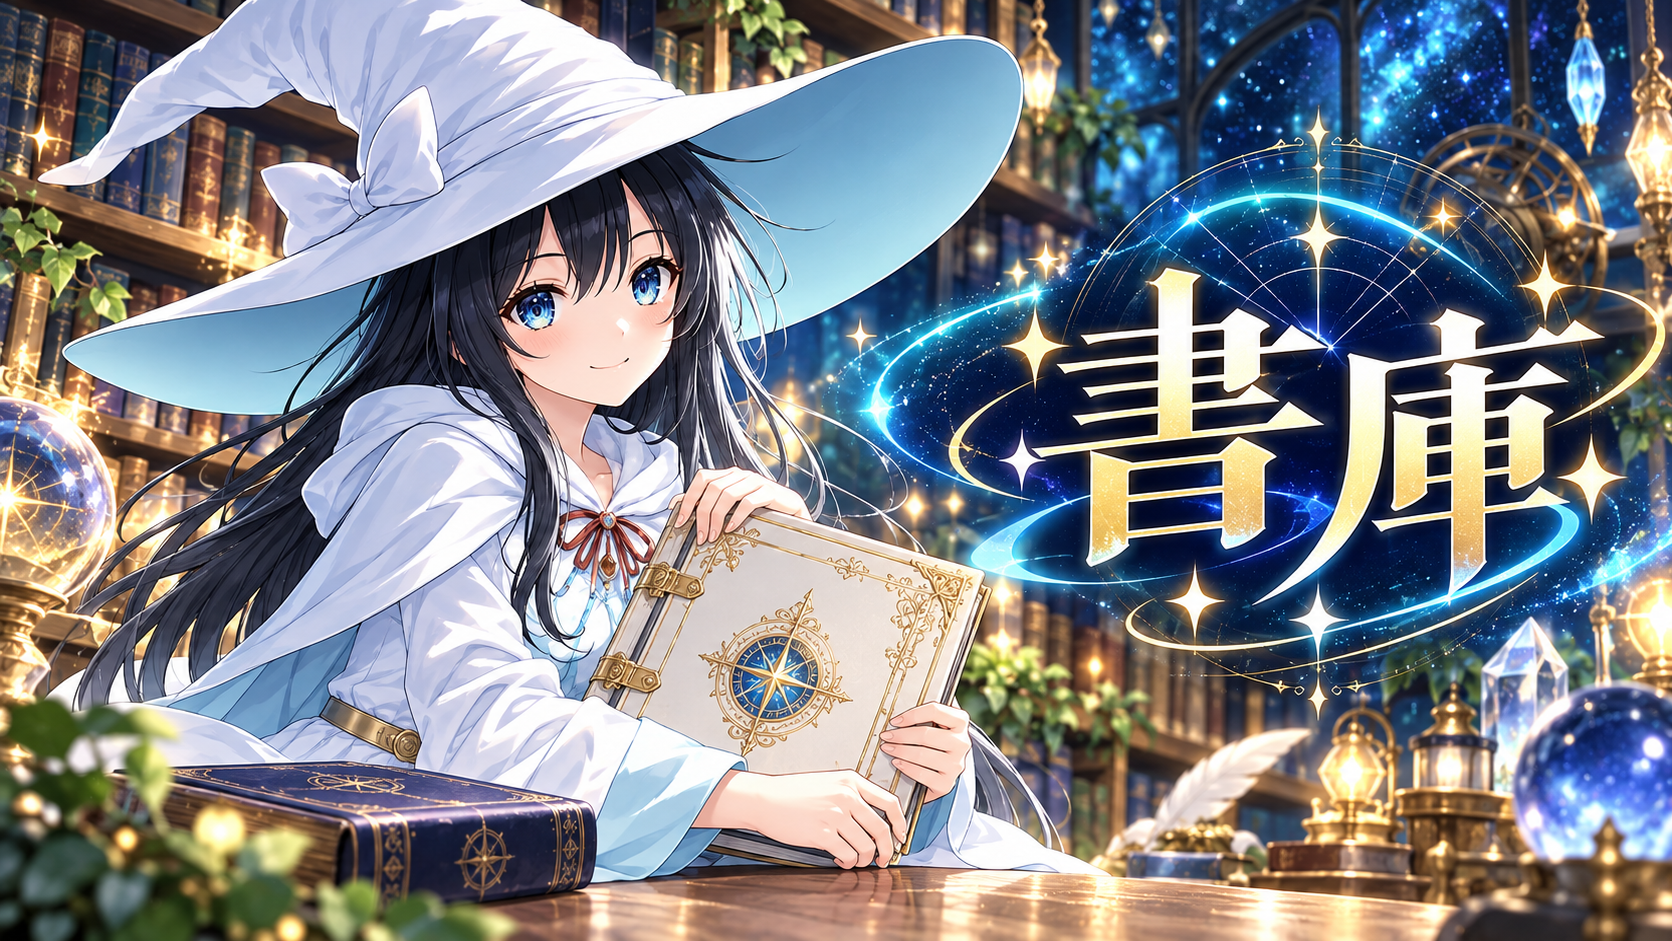
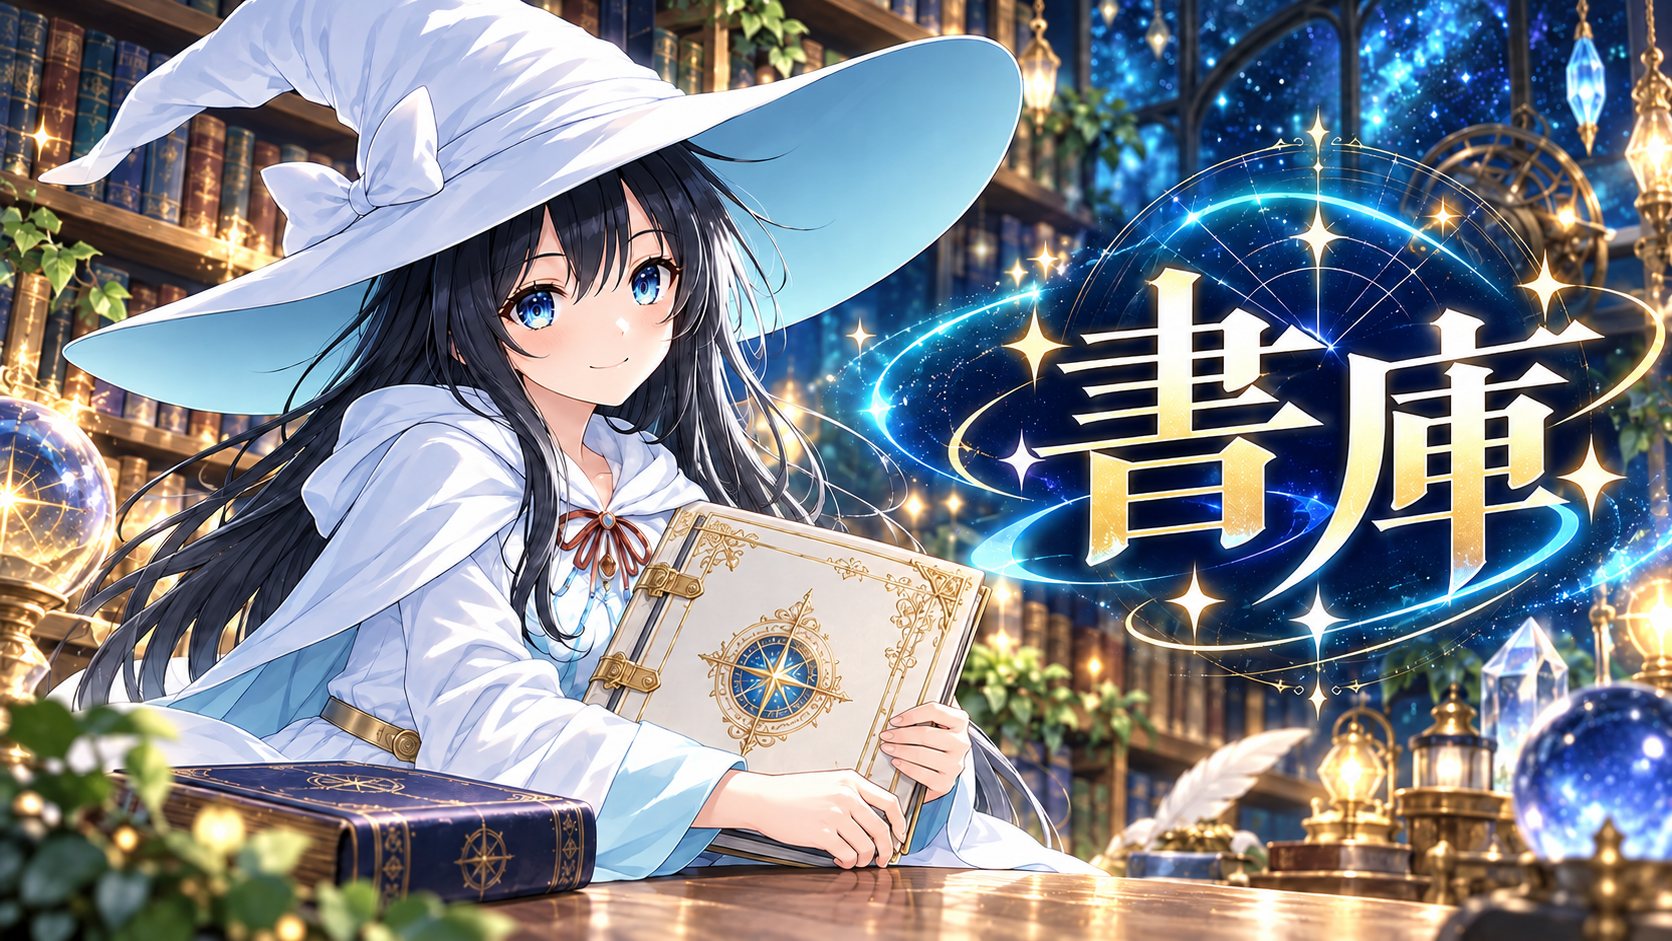
Refresh Quest setup, menu artwork and pending handoffs

diff --git a/app/guide/page.tsx b/app/guide/page.tsx
@@ -5,7 +5,10 @@ import styles from "./guide.module.css";
 import heroImage from "./images/IMG_8173.jpeg";
 import signupImage from "./images/IMG_8174.jpeg";
 import searchImage from "./images/IMG_8177.jpeg";
-import homeImage from "./images/IMG_8178.jpeg";
+import homeImage from "./images/home-menu.webp";
+import nanikaMenuImage from "./images/nanika-menu.webp";
+import neraiuchiMenuImage from "./images/neraiuchi-menu.webp";
+import questMenuImage from "./images/quest-menu.webp";
 import addToHomeImage from "./images/IMG_8179.jpeg";
 import gachaCodeImage from "./images/IMG_8180.jpeg";
 import gachaListImage from "./images/IMG_8181.jpeg";
@@ -14,19 +17,19 @@ import addToHomeMenuImage from "./images/IMG_8183.jpeg";
 import addToHomeConfirmImage from "./images/IMG_8184.jpeg";
 import gachaResultsImage from "./images/IMG_8185.jpeg";
 import quizImage from "./images/IMG_8187.jpeg";
-import menuImage from "./images/IMG_8188.jpeg";
-import topImage from "./images/IMG_8189.jpeg";
 
 const gallery = [
   { image: searchImage, alt: "yumetsuki.jpを検索する画面", caption: "01｜yumetsuki.jpで検索" },
   { image: addToHomeImage, alt: "ホーム画面に追加する操作例", caption: "02｜ホーム画面に追加" },
   { image: signupImage, alt: "新規登録画面", caption: "03｜新規登録" },
-  { image: homeImage, alt: "トップページ", caption: "04｜トップページ" },
+  { image: homeImage, alt: "画像カードと遊び方、詳細ボタンがあるガチャメニューの画面例", caption: "04｜新しい画像メニュー" },
   { image: gachaCodeImage, alt: "ガチャコード入力画面", caption: "05｜ガチャを楽しむ" },
   { image: gachaListImage, alt: "ガチャ一覧画面", caption: "06｜ガチャ一覧" },
   { image: quizImage, alt: "クイズメニュー", caption: "07｜クイズに挑戦" },
-  { image: menuImage, alt: "ニブイチとガチャのメニュー", caption: "08｜各機能を利用" },
+  { image: nanikaMenuImage, alt: "何かの景品ガチャのトップメニューの画面例", caption: "08｜何かの景品ガチャ" },
   { image: gachaResultsImage, alt: "ガチャの結果一覧", caption: "09｜ガチャ結果を確認" },
+  { image: questMenuImage, alt: "リンクが無効なときのゆめつきクエストメニューの画面例", caption: "公開対象外のメニュー表示例" },
+  { image: neraiuchiMenuImage, alt: "ゆめつきの狙い撃ちのトップメニューの画面例", caption: "狙い撃ちの企画・遊び方・履歴" },
   { image: addToHomeMenuImage, alt: "iPhoneの共有メニュー", caption: "ホーム画面へ追加する操作" },
   { image: addToHomeConfirmImage, alt: "ホーム画面に追加する確認画面", caption: "ホーム画面への追加確認" },
   { image: noticeImage, alt: "ご容赦くださいの案内", caption: "アプリについてのお知らせ" },
@@ -112,11 +115,12 @@ export default function GuidePage() {
       <section className={`${styles.section} ${styles.featureBand}`}>
         <div className={styles.container}>
           <SectionHeading eyebrow="FEATURES" title="「ゆめつきの書斎」でできること">
-            主な機能を、実際の画面と一緒に紹介します。
+            トップはカテゴリー別の画像メニューです。大きなカードから各機能へ、遊び方から説明へ進めます。「詳細を表示」で履歴などの関連リンクも開きます。通常ガチャの次は、ゆめつきクエストです。
           </SectionHeading>
+          <p className={styles.note}>メニュー画像は説明用のログイン状態で撮影した画面例です。開催・公開範囲は実際の案内をご確認ください。グレーの項目はトップから開けません。</p>
           <div className={styles.features}>
-            <Feature image={homeImage} number="04" title="ニブイチ企画">
-              ガチャ結果を予想する参加型コンテンツ。リアルタイムの参加状況も楽しめます。
+            <Feature image={homeImage} number="04" title="画像メニューから選ぶ">
+              今日のニブイチ、ガチャ、クイズなどをカテゴリー別に表示。履歴やランキングは、それぞれの「詳細を表示」から確認できます。
             </Feature>
             <Feature image={gachaCodeImage} number="05" title="ガチャを引く【重要】">
               週間のお裾分け企画では、メインの当たり「ゆめつき賞」の当選決定にガチャを使用します。企画に参加したら、忘れずにガチャを引きましょう。
@@ -127,11 +131,14 @@ export default function GuidePage() {
             <Feature image={quizImage} number="07" title="クイズでポイントGET">
               「ゆめつきクイズ」で問題に挑戦。正解や参加を通じてポイントを獲得できます。
             </Feature>
-            <Feature image={menuImage} number="08" title="ポイントを活用">
-              貯めたポイントを使って、景品選択などの楽しみに繋げられます。
+            <Feature image={nanikaMenuImage} number="08" title="何かの景品ガチャ" badges={["当選権利", "挑戦権利"]}>
+              企画や購入で得た権利を使い、候補を見ながら商品の中身を抽選で決めます。当選権利は追加ポイント不要、挑戦権利は設定された消費ポイントも必要です。消費ポイントと受取ポイントは別です。<Link href="/nanika-gacha/guide">詳しい遊び方を見る</Link>。
             </Feature>
-            <Feature image={topImage} number="09" title="機能をまとめて利用">
-              クイズ、ガチャ、ミッション、ランキング、アカウント関連などをひとまとめに。
+            <Feature image={questMenuImage} number="09" title="ゆめつきクエスト" badges={["最大14回", "開催回別に保存"]}>
+              星のサイコロで４つの舞台を巡るイベント。星ポイントはクエスト内の経験値で、通常ポイントとは別です。項目は全員に表示されますが、公開対象外の間はグレー表示・リンクなしになります。<Link href="/quest/guide">クエストの遊び方を見る</Link>。
+            </Feature>
+            <Feature image={neraiuchiMenuImage} number="10" title="ゆめつきの狙い撃ち" badges={["参加無料", "１企画１回"]}>
+              受付期間に参加すると、サーバーで成立した順に参加番号が決まります。当選番号と一致すれば当選。押す速さで当選が保証される仕組みではなく、番号・当落・参加人数は企画終了後に公開します。<Link href="/neraiuchi/guide">詳しい遊び方を見る</Link>。
             </Feature>
           </div>
         </div>
@@ -178,7 +185,7 @@ export default function GuidePage() {
       <section className={`${styles.section} ${styles.featureBand}`}>
         <div className={styles.container}>
           <SectionHeading eyebrow="SCREEN GALLERY" title="実際の画面をチェック">
-            検索から登録、ホーム、ガチャ、クイズ、ポイント関連まで、操作イメージをまとめています。
+            トップメニューは現在の画面例に更新しています。登録・ホーム画面への追加などは旧画面を含む操作例です。端末や更新によって表示が異なる場合があります。
           </SectionHeading>
           <div className={styles.gallery}>
             {gallery.map((item) => (
@@ -258,11 +265,13 @@ function Feature({
   image,
   number,
   title,
+  badges = ["ゆめつき企画", "ポイント"],
   children,
 }: {
   image: typeof heroImage;
   number: string;
   title: string;
+  badges?: string[];
   children: React.ReactNode;
 }) {
   return (
@@ -273,8 +282,7 @@ function Feature({
         <h3>{title}</h3>
         <p>{children}</p>
         <div className={styles.badges}>
-          <span>ゆめつき企画</span>
-          <span>ポイント</span>
+          {badges.map(badge => <span key={badge}>{badge}</span>)}
         </div>
       </div>
     </article>

diff --git a/app/admin/quest/page.tsx b/app/admin/quest/page.tsx
@@ -20,6 +20,10 @@ const numericFields = {
   upperMin: "上位の下限評価点", topMinProgress: "最上位の塔進捗点（59〜66）", topMinLevel: "最上位の必要レベル",
 } as const;
 type Numeric = keyof typeof numericFields;
+const recommendedNumbers: Record<Numeric, number> = {
+  stepStarPoints: 1, levelPoints: 12, levelScore: 2, percentMax: 80, percentDecimals: 1,
+  middleMin: 52, upperMin: 63, topMinProgress: 61, topMinLevel: 6,
+};
 type AdminRun = QuestPublicRun & { xAccountList: string[]; simulation: QuestSimulation[] | null; simulatedVersion: number | null };
 type Listing = { items: AdminRun[]; nextCursor: string | null };
 const localJst = (ms: number) => new Date(ms + 9 * 3600000).toISOString().slice(0, 16);
@@ -30,7 +34,7 @@ function numberValue(value: string, label: string) {
 function newForm() {
   return { title: "", description: "", thumbnail: "/quest/menu-thumbnail-v2.jpg", startsAt: "", endsAt: "",
     flags: ["public"] as QuestFlag[], xText: "", accessCode: "",
-    numbers: Object.fromEntries(Object.keys(numericFields).map(key => [key, ""])) as Record<Numeric, string>,
+    numbers: Object.fromEntries(Object.entries(recommendedNumbers).map(([key, value]) => [key, String(value)])) as Record<Numeric, string>,
     distribution: "" as "" | QuestRules["distribution"]["mode"], releaseAt: Array<string>(14).fill(""), dailyHour: "",
     rescue: "" as "" | "yes" | "no", adminRescue: false, eventSources: [] as QuestRules["rescue"]["eventSources"],
     rescueFrom: "", rescueBelow: "", rescueMax: "", rescueRate: "", rescueTurn: "" };
@@ -198,6 +202,7 @@ export default function QuestAdminPage() {
           <input type="datetime-local" required value={value} onChange={event => change("releaseAt", form.releaseAt.map((at, i) => i === index ? event.target.value : at))} /></label>)}</div>}
         <h3>星ポイント・評価境界</h3>
         <p className={styles.small}>評価点＝現在地の進捗点＋レベル加点×（Lv.−１）。最上位は塔の指定進捗点とレベルの両方を満たす方です。盤面の金の星・星咲き・出口の効果はboard-v2に固定されています。</p>
+        {!selected && <p className={styles.notice}>新規開催には試算用の推奨初期値を入力しています。配布・救済条件によって分布は変わるため、そのまま確定値とはせず、条件を設定して14回の分布を試算してから公開してください。</p>}
         <div className={styles.fields}>{Object.entries(numericFields).map(([key, label]) => <label key={key}>{label}<input type="number" required min={key === "stepStarPoints" || key === "levelScore" || key === "percentDecimals" ? 0 : 1}
           step={1} value={form.numbers[key as Numeric]} onChange={event => change("numbers", { ...form.numbers, [key]: event.target.value })} /></label>)}</div>
         <h3>イベント勝利・管理者付与による救済</h3>

diff --git a/app/lib/homeMenu.ts b/app/lib/homeMenu.ts
@@ -20,15 +20,6 @@ export type HomeMenuSection = {
 
 export const homeMenu: HomeMenuSection[] = [
   {
-    id: "quest", title: "ゆめつきクエスト", color: "#354e86", accent: "#d6b766",
-    cards: [{ label: "ゆめつきクエスト", href: "/quest", imageSrc: "/quest/menu-thumbnail-v2.jpg", imageWidth: 1024, imageHeight: 576, description: "星のサイコロで、４つの舞台を巡る旅へ。" }],
-    guides: [{ label: "クエストの遊び方", href: "/quest/guide", icon: "book" }],
-    details: [
-      { label: "星務進捗ランキング", href: "/quest/ranking", icon: "ranking" },
-      { label: "過去の星務報告書", href: "/quest/archive", icon: "history" },
-    ],
-  },
-  {
     id: "nibuichi", title: "今日のニブイチ", color: "#854d0e", accent: "#eab308",
     cards: [{ label: "今日のニブイチに参加する", href: "/nibuichi", image: "nibuichi", description: "今日の結果を予想しよう。" }],
     guides: [{ label: "ニブイチの遊び方を見る", href: "/nibuichi/guide", icon: "book" }],
@@ -45,6 +36,15 @@ export const homeMenu: HomeMenuSection[] = [
       { label: "ガチャを引く", href: "/gacha", icon: "gacha" },
       { label: "ガチャ結果を見る", href: "/gacha/results", icon: "history" },
       { label: "ガチャアーカイブを見る", href: "/gacha/archive", icon: "book" },
+    ],
+  },
+  {
+    id: "quest", title: "ゆめつきクエスト", color: "#354e86", accent: "#d6b766",
+    cards: [{ label: "ゆめつきクエスト", href: "/quest", imageSrc: "/quest/menu-thumbnail-v2.jpg", imageWidth: 1024, imageHeight: 576, description: "星のサイコロで、４つの舞台を巡る旅へ。" }],
+    guides: [{ label: "クエストの遊び方", href: "/quest/guide", icon: "book" }],
+    details: [
+      { label: "星務進捗ランキング", href: "/quest/ranking", icon: "ranking" },
+      { label: "過去の星務報告書", href: "/quest/archive", icon: "history" },
     ],
   },
   {
@@ -79,7 +79,7 @@ export const homeMenu: HomeMenuSection[] = [
   },
   {
     id: "account", title: "アカウント", color: "#166534", accent: "#16a34a",
-    cards: [{ label: "書庫を見る", href: "/archive", image: "archive", description: "オリカや、企画の思い出を。" }],
+    cards: [{ label: "書庫を見る", href: "/archive", image: "archive", imageSrc: "/menu/thumbnails/archive.webp?v=414dccbc1b0f", description: "オリカや、企画の思い出を。" }],
     guides: [],
     details: [{ label: "プロフィールを編集する", href: "/profile", image: "profile", description: "登録内容を確認・編集。" }],
   },

diff --git a/app/lib/homeMenu.test.ts b/app/lib/homeMenu.test.ts
@@ -21,7 +21,7 @@ test("all 21 existing destinations are preserved; Nanika is separate and Neraiuc
   assert.deepEqual(new Set(links(false)), new Set([...old, ...nanika, ...quest]));
   assert.deepEqual(new Set(links(true)), new Set([...old, ...nanika, ...quest, "/neraiuchi", "/neraiuchi/guide", "/neraiuchi/history"]));
   assert.deepEqual(visibleHomeMenu(true).map((section) => section.id),
-    ["quest", "nibuichi", "gacha", "nanika-gacha", "quiz", "neraiuchi", "points", "account"]);
+    ["nibuichi", "gacha", "quest", "nanika-gacha", "quiz", "neraiuchi", "points", "account"]);
   assert.ok(visibleHomeMenu(false).every((section) => section.id !== "neraiuchi"));
 });
 
@@ -31,7 +31,7 @@ test("every menu destination and original/optimized image exists; profile stays 
   }
   for (const section of visibleHomeMenu(true)) {
     for (const item of [...section.cards, ...section.guides, ...section.details]) {
-      if (item.imageSrc) assert.ok(existsSync(`public${item.imageSrc}`), item.imageSrc);
+      if (item.imageSrc) assert.ok(existsSync(`public${new URL(item.imageSrc, "http://localhost").pathname}`), item.imageSrc);
       if (item.image) {
         assert.ok(existsSync(`public/menu/thumbnails/${item.image}.png`));
         assert.ok(existsSync(`public/menu/thumbnails/${item.image}.webp`));

diff --git a/temp_info/README.md b/temp_info/README.md
@@ -1,27 +1,18 @@
-# 未反映・未確認の資料
+# 未完了の内容
 
-トップページの画像メニュー化・共通背景・狙い撃ち本体・何かの景品ガチャと共有権限対策は本番反映済み。旧指示、古い表示見本、重複画像を削除し、このフォルダには未反映・未確認の内容だけを残す。
+このフォルダは、未実装・未確定・未検証の内容だけを置く。実施済みの指示を再実行しない。
 
 ## 残っている内容
 
-- **開催前に4種類の初期設定と景品在庫の登録が必要。** 参加費用・受取ポイント・対象X一覧は管理者が種類ごとに設定する。現在は4種類とも未設定・非表示で抽選できない。画像1枚を景品1点として登録するため、同じ実物を重複登録しない。
-- **すでに開いている旧画面は再読み込みが必要。** 通常のポイント交換・通常ガチャの発送選択と管理者のX編集・プロフィール削除は専用Functionsへ移行済み。古い画面からの直接書き込みは新しい権限設定で拒否されるため、更新後の画面を利用する。
-- **ガイドの説明・スクリーンショット更新は未確認。** 旧資料02にあった、新しいトップページと狙い撃ち画面に合わせる作業。完了扱いにしない。
-- **実機iPhone Safariでの表示・操作確認は未実施。** ブラウザ自動確認とは区別する。本番で抽選・ポイント交換・発送の試験は行わない。
+- **クエスト初回開催の運用条件の確定**：[quest-first-run.md](quest-first-run.md)。開催日時・対象者・サイコロ配布・救済条件・評価境界を決め、試算後に公開する。開催を自動作成・自動公開しない。
+- **実機iPhone Safariでの表示・操作確認**：画像メニュー、クエスト、狙い撃ち、何かの景品ガチャと受取画面。Chromium／WebKitの自動確認とは区別する。本番の抽選・ポイント交換・発送を確認目的で実行しない。
 
-## 未採用の参考案
+## 投入履歴の例外
 
-旧資料の任意案として、書庫入口のカード化と、当選番号のsalt付き事前コミットメントによる検証方式があった。現在の実装には含めず、自動的に追加する作業として扱わない。
+`nanika-stock/` はユーザー指定の例外として現在の場所に残す、Git管理外の永続的な投入・照合履歴。未実装の指示ではない。`batches/` の画像・manifest・成功記録と `reconciliation/` を削除・再投入しない。台帳ツールの参照先も変更しない。
 
-## 素材の正式な保管先
+## 実施済み資料の保管先
 
-以下のパスはリポジトリルート基準。
+元の引き継ぎ・見本は `local-data/completed-handoffs/` へ移動し、Git管理外で保管する。保管資料内の「未実装」「本番未反映」は資料作成時点の記録で、現在の状態ではない。
 
-- 使用中のサムネイル・アイコン：`public/menu/thumbnails/`、`public/menu/icons/`
-- 使用中の背景：`public/backgrounds/yumetsuki-stars.png` と `.webp`
-- 本番反映済みのヘッダー・フッター：`public/branding/`
-- ヘッダー・フッターの生成原本・生成指示・旧案参考画像：`design-assets/branding/`
-- 何かの景品ガチャの実装済み仕様・生成原本・参考画像・制作メモ：`design-assets/nanika-gacha/`。実アプリ用WebPは `public/nanika-gacha/thumbnails/` と `public/menu/thumbnails/nanika-gacha.webp`
-- 素材一覧・ハッシュ・生成指示：`design-assets/manifest.json`、`design-assets/*generation-prompts.txt`
-
-素材一覧の `file` は一覧ファイルのあるフォルダからの相対パス。`status: implemented` はコードへ組み込み済み・本番反映待ち、`deployed` は本番反映済み、`superseded` / `reference` は非公開の保管用。
+アプリの正本は `app/`・`components/`・`functions/`、使用素材は `public/`、既存の素材台帳は `design-assets/manifest.json`。実装済み資料をこのフォルダへ戻さない。

diff --git a/temp_info/quest-first-run.md b/temp_info/quest-first-run.md
@@ -1,0 +1,12 @@
+# ゆめつきクエスト：初回開催前の未確定事項
+
+本番の開催を作成・公開する前に、管理者が `/admin/quest` で以下を確定する。
+
+- 開催名・説明・画像・開始／終了日時と、参加対象・限定コード・対象X一覧。
+- 通常サイコロの配布方式と日時。１開催で最大14回。
+- イベント勝利・管理者付与の救済を使うか、付与元・利用条件・試算上の保有率。
+- 星ポイント・レベル・評価境界・達成率表示の確定値。新規作成時の推奨初期値だけで確定した扱いにしない。
+- 実際の配布・救済条件と分岐／抜け道の選択方針を含む14回の分布試算。目標は最上位２％以下、上位約８％、中間約50％、下位約40％。全参加者の実績分布とは区別する。
+- 初回の案内・ランキングの運用と、トップメニューの公開範囲を切り替える時期。メニューの公開範囲と開催の参加条件は別々に設定する。
+
+保存した設定で試算し、検討記録と確認を経て公開する。通常ポイント・発送物の配布や、他企画の参加条件を自動的に変更する指示ではない。
